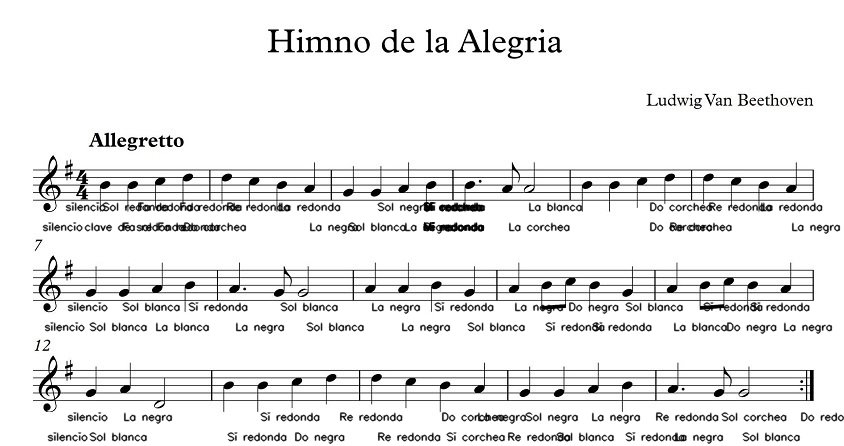
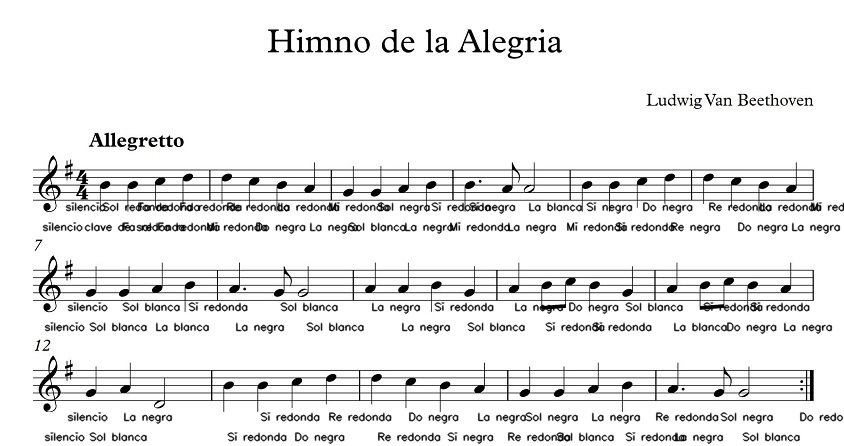
Añadido ajustes

diff --git a/app/pygame_funcs/ajustes.py b/app/pygame_funcs/ajustes.py
@@ -3,7 +3,8 @@ import pygame_menu
 from Classes.Ajustes import Ajustes
 import pickle
 import numpy as np
-from lectura_partituras.functions.functions import find_complete_path
+import os
+from lectura_partituras.functions.functions import find_complete_path, get_ajustes
 
 def set_corcheas(value, boolean, AJUSTES):
     AJUSTES.DETECTAR_CORCHEAS = boolean
@@ -11,18 +12,29 @@ def set_corcheas(value, boolean, AJUSTES):
 def set_resize(value, boolean, AJUSTES):
     AJUSTES.CAMBIAR_SIZE = boolean
 
-def set_umbral(value, AJUSTES, menu, screen):
+def set_umbral(value, AJUSTES):
     AJUSTES.UMBRAL_NEGRO = int(value)
 
+def set_porcentaje_detectar_nota(value, AJUSTES):
+    AJUSTES.PORCENTAJE_DETECTAR_NOTA = np.round(value, 3)
 
+def set_porcentaje_diferenciar_negra_blanca(value, AJUSTES):
+    AJUSTES.PORCENTAJE_DETECTAR_NOTA = np.round(value, 3)
 
 def set_fraccion(value, AJUSTES):
     AJUSTES.FRACCION_MINIMA_PIXELES_NEGROS = np.round(value, 3)
 
 
 def save(AJUSTES, AJUSTES_DEFAULT, menu, screen, complete_path):
-    with open(complete_path + "app/ajustes/ajustes.obj", "wb") as fh:
-        pickle.dump(AJUSTES, fh)
+    saved:bool = False
+    while not saved:
+        try:
+            with open(complete_path + "app/ajustes/ajustes.obj", "wb") as fh:
+                pickle.dump(AJUSTES, fh)
+            saved = True
+        except FileNotFoundError:
+            os.mkdir(complete_path + "app/ajustes")
+        
 
     draw_menu(menu, screen, AJUSTES, AJUSTES_DEFAULT, complete_path)
 
@@ -36,30 +48,29 @@ def return_to_default_settings(AJUSTES, AJUSTES_DEFAULT, menu, screen, complete_
 
 def draw_menu(menu, screen, AJUSTES, AJUSTES_DEFAULT, complete_path):
     menu.clear()
+    menu.add.range_slider("Porcentaje para detectar una nota: "+str(AJUSTES.PORCENTAJE_DETECTAR_NOTA), default=AJUSTES.PORCENTAJE_DETECTAR_NOTA, range_values=(0, 1), increment=0.1, onchange = lambda value:set_porcentaje_detectar_nota(value, AJUSTES))
+    menu.add.range_slider("Porcentaje para diferenciar entre negras y blancas: "+str(AJUSTES.PORCENTAJE_DIFERENCIAR_NEGRA_BLANCA), default=AJUSTES.PORCENTAJE_DIFERENCIAR_NEGRA_BLANCA, range_values=(0, 1), increment=0.1, onchange = lambda value:set_porcentaje_diferenciar_negra_blanca(value, AJUSTES))
     menu.add.range_slider("Umbral negro: "+str(AJUSTES.UMBRAL_NEGRO), default=AJUSTES.UMBRAL_NEGRO, range_values=(0, 255), increment=1, onchange = lambda value:set_umbral(value, AJUSTES, menu, screen))
     menu.add.range_slider("Fracción mínima pixeles negros: "+str(AJUSTES.FRACCION_MINIMA_PIXELES_NEGROS) + " ", default=AJUSTES.FRACCION_MINIMA_PIXELES_NEGROS, range_values=(0, 1), increment=0.1, onchange = lambda value:set_fraccion(value, AJUSTES))
     menu.add.selector('Detectar corcheas :'+str(AJUSTES.DETECTAR_CORCHEAS), [('No', False), ('Sí', True)], default=AJUSTES.DETECTAR_CORCHEAS, onchange= lambda value, boolean: set_corcheas(value, boolean, AJUSTES))
     menu.add.selector('Cambiar tamaño partitura :'+str(AJUSTES.CAMBIAR_SIZE), [('No', False), ('Sí', True)], default=AJUSTES.CAMBIAR_SIZE, onchange= lambda value, boolean: set_resize(value, boolean, AJUSTES))
     menu.add.button("Default settings", lambda: return_to_default_settings(AJUSTES, AJUSTES_DEFAULT, menu, screen, complete_path))
     menu.add.button('Save', lambda: save(AJUSTES, AJUSTES_DEFAULT, menu, screen, complete_path))
+    
     menu.add.button('Quit', lambda: quit(menu))
 
 def main_ajustes():
-    # pygame.init()
-    complete_path = find_complete_path(__file__)
 
-    w = 760
-    h = 760
+    complete_path:str = find_complete_path(__file__)
+
+    w:int = 1080
+    h:int = 700
     screen = pygame.display.set_mode((w, h))
     
-    AJUSTES_DEFAULT = Ajustes()
-    try:
-        with open(complete_path + "app/ajustes/ajustes.obj", "rb") as fh:
-            AJUSTES = pickle.load(fh)
-    except FileNotFoundError:
-        AJUSTES = AJUSTES_DEFAULT
+    AJUSTES_DEFAULT:Ajustes = Ajustes()
+    AJUSTES:Ajustes = get_ajustes()
         
-    menu = pygame_menu.Menu('Welcome', w, h,
+    menu = pygame_menu.Menu('Ajustes', w, h,
                         theme=pygame_menu.themes.THEME_DARK)
 
     draw_menu(menu, screen, AJUSTES, AJUSTES_DEFAULT, complete_path)

diff --git a/app/lectura_partituras/functions/diferenciar_figuras.py b/app/lectura_partituras/functions/diferenciar_figuras.py
@@ -110,7 +110,7 @@ def diferenciar_entre_figuras_negras(posiciones_cuadrado:list[int], posiciones_r
         return "corchea"
     return "negra"
 
-def encontrar_longitud_nota(figura:list, UMBRAL_NEGRO:int, posiciones_cuadrado:list[int], posiciones_rectangulo:list[int]) -> str:
+def encontrar_longitud_nota(figura:list, UMBRAL_NEGRO:int, posiciones_cuadrado:list[int], posiciones_rectangulo:list[int], PORCENTAJE_DIFERENCIAR_NEGRA_BLANCA:float) -> str:
     """
     Encuentra qué tipo de figura es (blanca, negra, redonda, corchea)
 
@@ -119,6 +119,7 @@ def encontrar_longitud_nota(figura:list, UMBRAL_NEGRO:int, posiciones_cuadrado:l
         UMBRAL_NEGRO (int): Valor a partir del cual un pixel se puede considerar negro (0 - 255)
         posiciones_cuadrado (list): Las posiciones del cuadrado que contiene a la nota
         posiciones_rectangulo (list): Las posiciones del rectángulo que contiene a la nota y al cuadrado
+        PORCENTAJE_DIFERENCIAR_NEGRA_BLANCA (float): El porcentaje de pixeles negros mínimos de una figura para ser negra
 
     Returns:
         figura (str): La figura que es
@@ -126,7 +127,7 @@ def encontrar_longitud_nota(figura:list, UMBRAL_NEGRO:int, posiciones_cuadrado:l
     pixeles = len(figura) * len(figura[0])
     numero_pixeles_negros = (figura < UMBRAL_NEGRO).sum()
     porcentaje = numero_pixeles_negros / pixeles
-    is_negra:bool = porcentaje > 0.65
+    is_negra:bool = porcentaje > PORCENTAJE_DIFERENCIAR_NEGRA_BLANCA
     figura  = "negra"
 
     if is_negra:
@@ -159,7 +160,7 @@ def get_octava(index_row_pentagrama: int) -> int:
 
     return octava
 
-def diferenciar_figuras(figura:list, posiciones_cuadrado:list, posiciones_rectangulo:list, rows_pentagrama:list, distancia:int, UMBRAL_NEGRO:int) -> Nota:
+def diferenciar_figuras(figura:list, posiciones_cuadrado:list, posiciones_rectangulo:list, rows_pentagrama:list, distancia:int, UMBRAL_NEGRO:int, PORCENTAJE_DIFERENCIAR_NEGRA_BLANCA:float) -> Nota:
     """
     Estudia la nota del pentagrama
 
@@ -170,7 +171,7 @@ def diferenciar_figuras(figura:list, posiciones_cuadrado:list, posiciones_rectan
         rows_pentagrama (list): Lista con las posiciones de las líneas del pentagrama
         distancia (int): La distancia entre las líneas del pentagrama
         UMBRAL_NEGRO (int): Valor a partir del cual un pixel se puede considerar negro (0 - 255)
-    
+        PORCENTAJE_DIFERENCIAR_NEGRA_BLANCA (float): El porcentaje de pixeles negros mínimos de una figura para ser negra
     Returns:
         Nota (Nota): Objeto de la nota que se ha estudiado con todas sus características
     """
@@ -197,5 +198,6 @@ def diferenciar_figuras(figura:list, posiciones_cuadrado:list, posiciones_rectan
     octava = get_octava(index_row_pentagrama)
 
     
-    figura:str = encontrar_longitud_nota(figura, UMBRAL_NEGRO, posiciones_cuadrado, posiciones_rectangulo)
+    figura:str = encontrar_longitud_nota(figura, UMBRAL_NEGRO, posiciones_cuadrado, posiciones_rectangulo, PORCENTAJE_DIFERENCIAR_NEGRA_BLANCA)
+
     return Nota(NOTAS_MUSICALES[(11-index_row_pentagrama) % 7], octava, posiciones_rectangulo, figura)

diff --git a/app/lectura_partituras/main_lectura_partituras.py b/app/lectura_partituras/main_lectura_partituras.py
@@ -30,11 +30,7 @@ def main_lectura_partituras():
     img = cv.cvtColor(img, cv.COLOR_BGR2GRAY)
     # PARAMETROS
 
-    try:
-        with open(complete_path + "app/ajustes/ajustes.obj", "rb") as fh:
-            AJUSTES = pickle.load(fh)
-    except FileNotFoundError:
-        AJUSTES = Ajustes()
+    AJUSTES:Ajustes = f.get_ajustes()
 
     UMBRAL_NEGRO: int = AJUSTES.UMBRAL_NEGRO  # considero negro cualquier valor menor que 140
     FRACCION_MINIMA_PIXELES_NEGROS: float = AJUSTES.FRACCION_MINIMA_PIXELES_NEGROS
@@ -69,7 +65,7 @@ def main_lectura_partituras():
         
         imagen_para_recorrer, desfase = f.calcular_imagen_a_recorrer_y_desfase(img, pentagramas,index_pentagrama, corte_pentagramas, distancia)
         
-        figuras_en_pentagrama = recorrer_pentagrama(imagen_para_recorrer, distancia, UMBRAL_NEGRO, grosor, pentagramas[index_pentagrama], partitura_fina, AJUSTES.DETECTAR_CORCHEAS)
+        figuras_en_pentagrama = recorrer_pentagrama(imagen_para_recorrer, distancia, UMBRAL_NEGRO, grosor, pentagramas[index_pentagrama], partitura_fina, AJUSTES.DETECTAR_CORCHEAS, AJUSTES.PORCENTAJE_DETECTAR_NOTA)
         
         count = 0
         for figura, posiciones, posiciones_rectangulo in figuras_en_pentagrama:
@@ -79,7 +75,7 @@ def main_lectura_partituras():
             posiciones_rectangulo = f.sumar_desfase(posiciones_rectangulo, desfase)
             
             nota = diferenciar_figuras(
-                figura, posiciones, posiciones_rectangulo, pentagramas[index_pentagrama], distancia, UMBRAL_NEGRO)
+                figura, posiciones, posiciones_rectangulo, pentagramas[index_pentagrama], distancia, UMBRAL_NEGRO, AJUSTES.PORCENTAJE_DIFERENCIAR_NEGRA_BLANCA)
             notas.append(nota)
             
             punto_medio = posiciones[0] + (posiciones[1] - posiciones[0]) // 2

diff --git a/app/lectura_partituras/functions/recorrer_pentagrama.py b/app/lectura_partituras/functions/recorrer_pentagrama.py
@@ -59,7 +59,7 @@ def agrandar_cuadrado(pentagrama:list[list[int]], posiciones_cuadrado:list[int],
     return posiciones_cuadrado, posiciones_rectangulo
 
 
-def recorrer_pentagrama(pentagrama:list, distancia:int, UMBRAL_NEGRO:int, GROSOR:int, posiciones_pentagrama:list[int,int], partitura_fina:bool, DETECTAR_CORCHEAS: bool) -> list[tuple]:
+def recorrer_pentagrama(pentagrama:list, distancia:int, UMBRAL_NEGRO:int, GROSOR:int, posiciones_pentagrama:list[int,int], partitura_fina:bool, DETECTAR_CORCHEAS: bool, PORCENTAJE_DETECTAR_NOTA:float) -> list[tuple]:
     '''
     Recorre cada pentagrama verticalmente y horizontalmente
     
@@ -91,7 +91,7 @@ def recorrer_pentagrama(pentagrama:list, distancia:int, UMBRAL_NEGRO:int, GROSOR
 
             cuadrado = pentagrama[posicion_vertical:posicion_vertical + distancia, posicion_horizontal:posicion_horizontal + step]
             
-            if len(cuadrado) == distancia and (cuadrado < UMBRAL_NEGRO).sum() > 0.4*(cuadrado <= 255).sum(): 
+            if len(cuadrado) == distancia and (cuadrado < UMBRAL_NEGRO).sum() > PORCENTAJE_DETECTAR_NOTA*(cuadrado <= 255).sum(): 
                 posiciones = [posicion_vertical, posicion_vertical + distancia, posicion_horizontal,posicion_horizontal + step]
                 posiciones_nuevas, posciiones_rectangulo = agrandar_cuadrado(pentagrama, posiciones, UMBRAL_NEGRO, GROSOR, AUMENTO_MINIMO_LATERALES, AUMENTO_MINIMO_ARRIBA_ABAJO, posiciones_pentagrama, partitura_fina, DETECTAR_CORCHEAS)  
                 cuadrado = pentagrama[posiciones_nuevas[0] : posiciones_nuevas[1], posiciones_nuevas[2]: posiciones_nuevas[3]]

diff --git a/app/Classes/Ajustes.py b/app/Classes/Ajustes.py
@@ -1,7 +1,9 @@
 class Ajustes:
-    def __init__(self, UMBRAL_NEGRO: int = 200, FRACCION_MINIMA_PIXELES_NEGROS: float = 3/4, SIZE_PENTAGRAMA_IDEAL:int = 43, DETECTAR_CORCHEAS:bool = False, CAMBIAR_SIZE: bool = False):
-        self.UMBRAL_NEGRO: int = UMBRAL_NEGRO  # considero negro cualquier valor menor que 140
+    def __init__(self, UMBRAL_NEGRO: int = 200, FRACCION_MINIMA_PIXELES_NEGROS: float = 3/4, SIZE_PENTAGRAMA_IDEAL:int = 43, DETECTAR_CORCHEAS:bool = False, CAMBIAR_SIZE: bool = False, PORCENTAJE_DETECTAR_NOTA:float = 0.45, PORCENTAJE_DIFERENCIAR_NEGRA_BLANCA:float = 0.65):
+        self.UMBRAL_NEGRO: int = UMBRAL_NEGRO
         self.FRACCION_MINIMA_PIXELES_NEGROS: float = FRACCION_MINIMA_PIXELES_NEGROS
         self.SIZE_PENTAGRAMA_IDEAL:int = SIZE_PENTAGRAMA_IDEAL
         self.DETECTAR_CORCHEAS:bool = DETECTAR_CORCHEAS
         self.CAMBIAR_SIZE:bool = CAMBIAR_SIZE
+        self.PORCENTAJE_DETECTAR_NOTA:float = PORCENTAJE_DETECTAR_NOTA
+        self.PORCENTAJE_DIFERENCIAR_NEGRA_BLANCA:float = PORCENTAJE_DIFERENCIAR_NEGRA_BLANCA

diff --git a/app/lectura_partituras/functions/functions.py b/app/lectura_partituras/functions/functions.py
@@ -1,5 +1,7 @@
 import cv2 as cv
 import numpy as np
+import pickle
+from Classes.Ajustes import Ajustes
 
 def calcular_imagen_a_recorrer_y_desfase(img:list, pentagramas:list, index_pentagrama:int, corte_pentagramas:list[tuple], distancia:int) -> tuple[list, int]:
     """
@@ -113,3 +115,13 @@ def limpiar_img(UMBRAL_NEGRO:int, img:list) -> list:
             else:
                 img[i,j] = 255
     return img
+
+def get_ajustes():
+    complete_path = find_complete_path(__file__)
+    try:
+        with open(complete_path + "app/ajustes/ajustes.obj", "rb") as fh:
+            AJUSTES = pickle.load(fh)
+    except FileNotFoundError:
+        AJUSTES = Ajustes()
+
+    return AJUSTES
